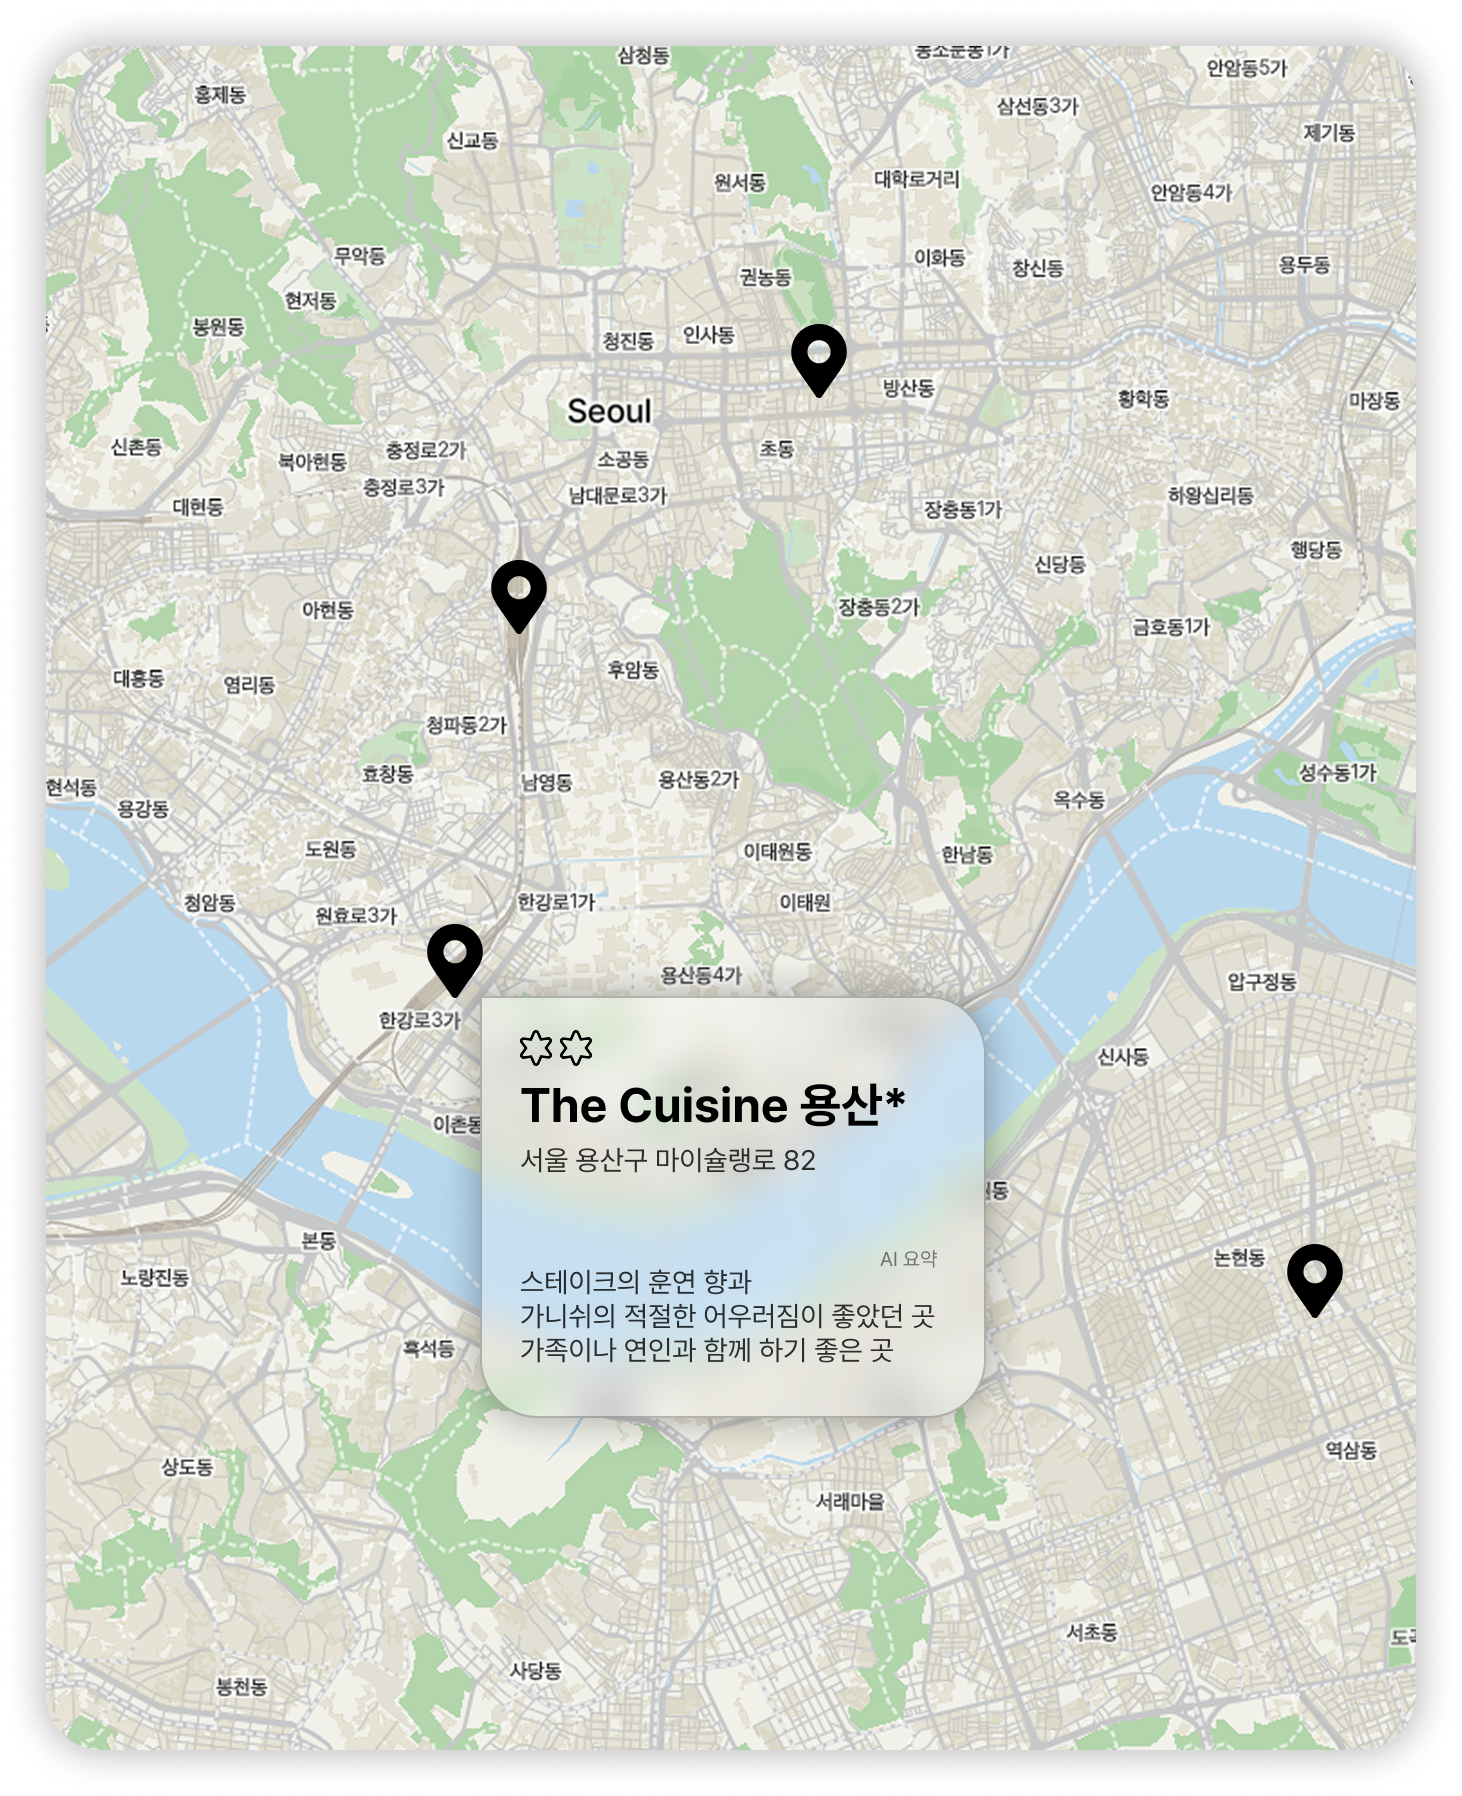
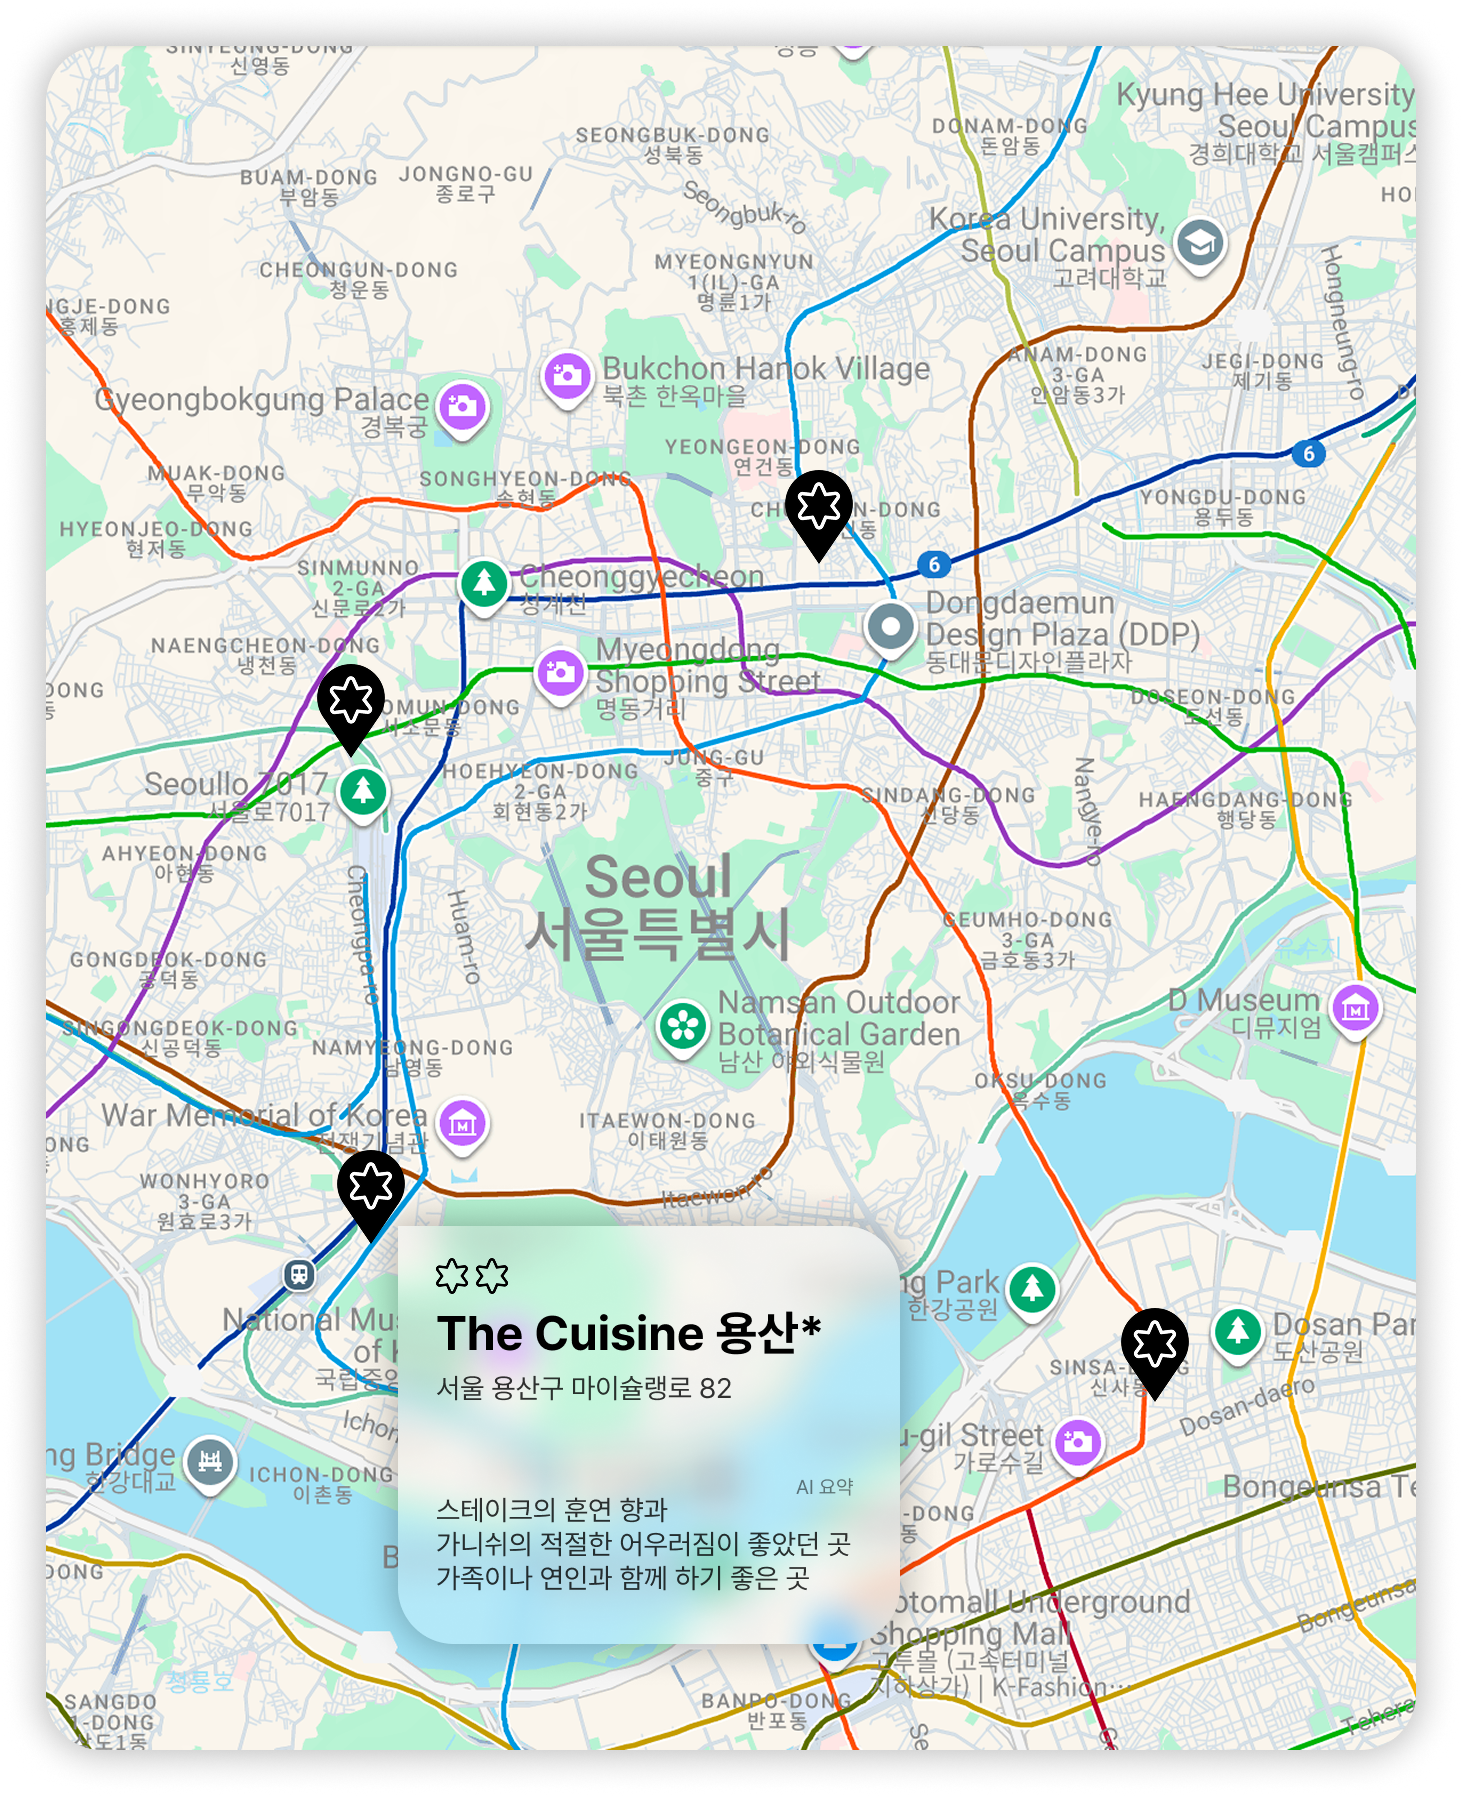
Feat: Landing page Features의 지도 예시 그림 수정, 픽션면책조항 추가

diff --git a/app/components/domain/landing-page/features.tsx b/app/components/domain/landing-page/features.tsx
@@ -1,6 +1,6 @@
 import Image, { StaticImageData } from "next/image";
 
-import marker_icon from "@/public/icons/marker_icon.svg";
+import marker_icon from "@/public/icons/marker_icon.png";
 import glass_icon from "@/public/icons/glass_icon.svg";
 import share_icon from "@/public/icons/share_icon.svg";
 import ex_map_img from "@/public/images/landing-page/ex_map_img.png";
@@ -47,6 +47,7 @@ export const Features = () => {
         >
           <div className="w-[40%] max-w-5xl">
             <Image src={feature.imgSrc} alt={feature.imgAlt} />
+            <p className="mr-6 text-right text-xs font-light">{idx === 0 && '*서비스 예시를 위한 가상의 음식점입니다.'}</p>
           </div>
           <div className="mt-8">
             <div
